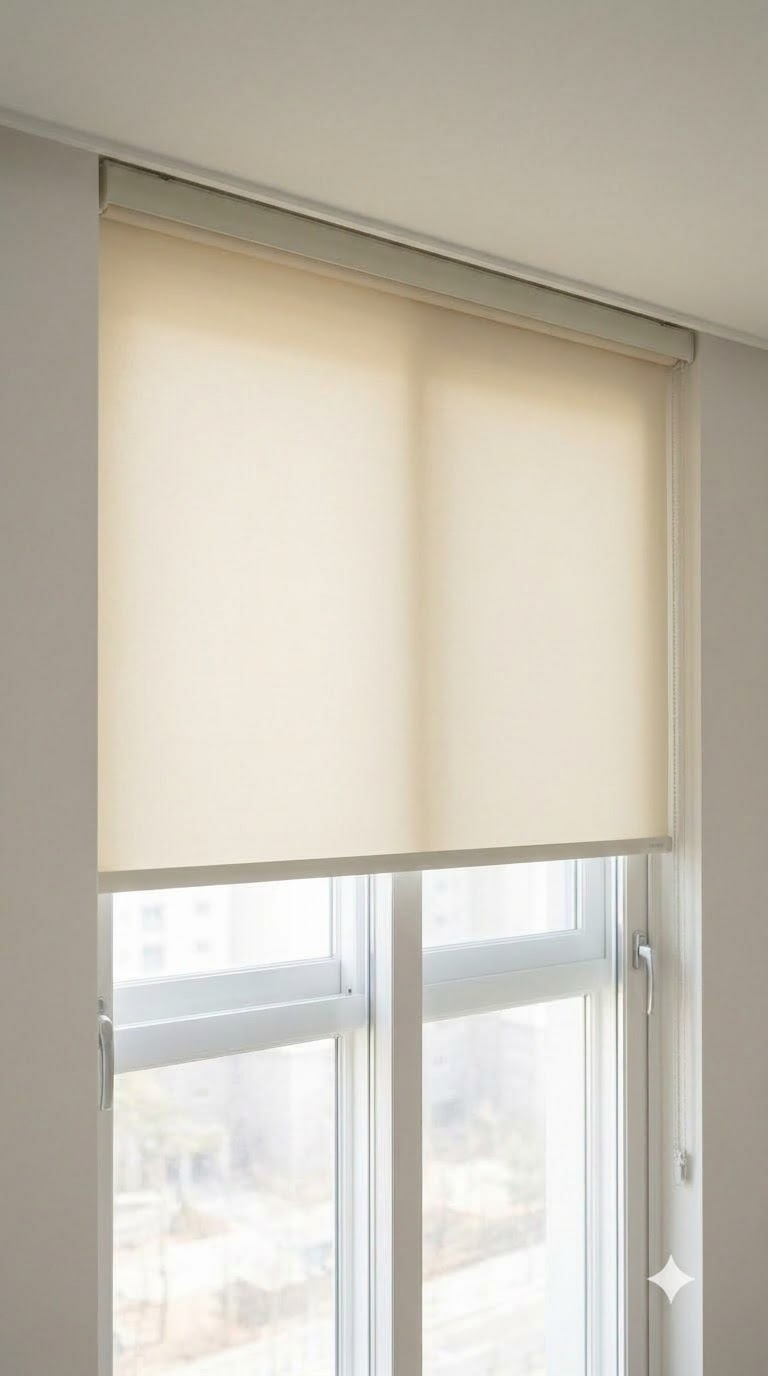
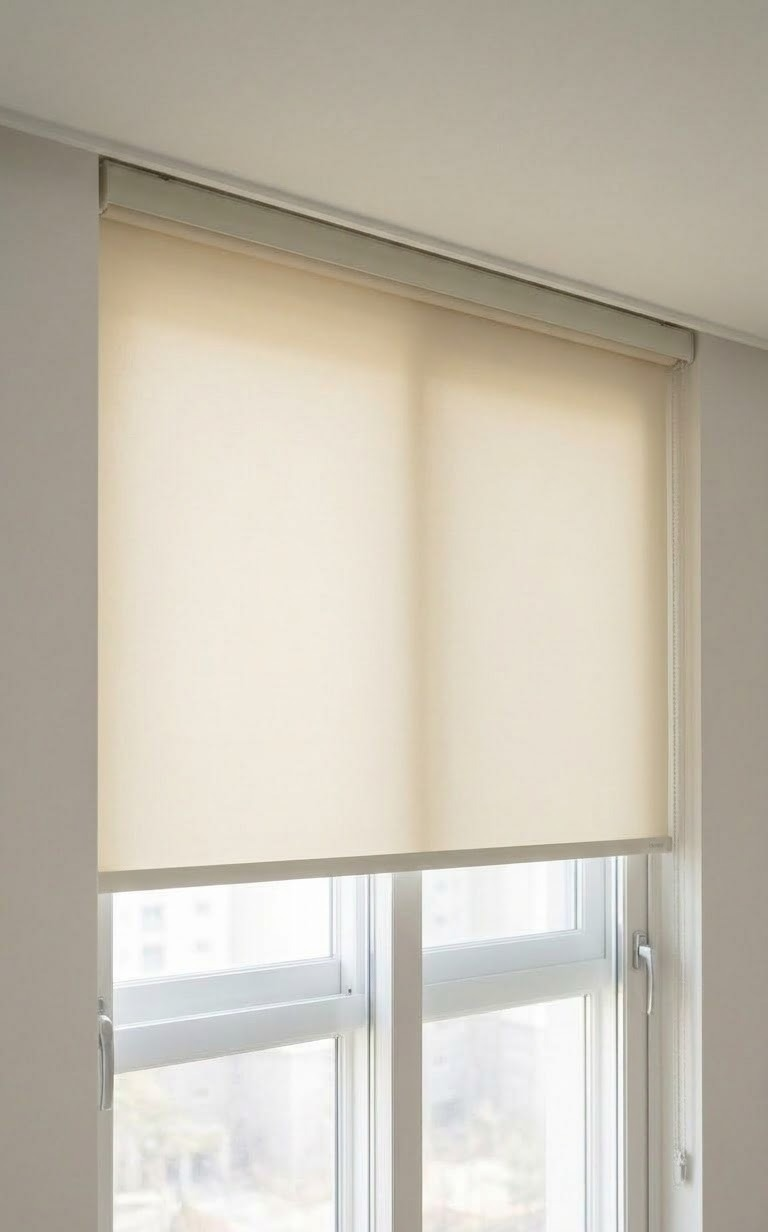
작업목록 69번: 창 구성·블라인드 종류 사진 8장의 오른쪽 아래 로고 없애기(아래 약 10%를 잘라 768×1232로, 파일 이름 그대로, 코드 안 고침) + 버전 20261088

diff --git a/app.js b/app.js
@@ -1,4 +1,4 @@
-(function(g){(g.REDAM_FILES=g.REDAM_FILES||{})['app.js']='20261087';})(typeof window!=='undefined'?window:globalThis); // 파일 버전 표시 (파일이 서로 맞는지 확인용)
+(function(g){(g.REDAM_FILES=g.REDAM_FILES||{})['app.js']='20261088';})(typeof window!=='undefined'?window:globalThis); // 파일 버전 표시 (파일이 서로 맞는지 확인용)
 // ==============================================================
 // app.js — 화면 전환(고객 / 직원), 직원 PIN, 직원 화면(견적 입력)
 // ==============================================================
@@ -22,7 +22,7 @@ window.onerror = function(msg, url, lineNo) {
 let appMode = 'customer';   // 'customer'(고객 화면) | 'staff'(직원 화면)
 
 // 파일 버전 확인: GitHub에 올린 파일 중 예전 버전이 섞여 있으면 화면 맨 위에 알려 줍니다.
-const REDAM_BUILD = '20261087';
+const REDAM_BUILD = '20261088';
 function checkFileVersions() {
     const expected = ['pricing.js', 'costing.js', 'data.js', 'calculator.js', 'concierge.js', 'app.js', 'room-color.js'];
     const reg = window.REDAM_FILES || {};

diff --git a/index.html b/index.html
@@ -695,13 +695,13 @@
     </div>
 
     <!-- 순서 중요: 계산 엔진 → 데이터 → 화면 -->
-    <script src="pricing.js?v=20261087"></script>
-    <script src="costing.js?v=20261087"></script>
-    <script src="data.js?v=20261087"></script>
-    <script src="calculator.js?v=20261087"></script>
-    <script src="concierge.js?v=20261087"></script>
-    <script src="app.js?v=20261087"></script>
-    <script src="room-color.js?v=20261087"></script>
+    <script src="pricing.js?v=20261088"></script>
+    <script src="costing.js?v=20261088"></script>
+    <script src="data.js?v=20261088"></script>
+    <script src="calculator.js?v=20261088"></script>
+    <script src="concierge.js?v=20261088"></script>
+    <script src="app.js?v=20261088"></script>
+    <script src="room-color.js?v=20261088"></script>
     <script>
         if ('serviceWorker' in navigator) {
             window.addEventListener('load', function () { navigator.serviceWorker.register('sw.js').catch(function () {}); });

diff --git a/costing.js b/costing.js
@@ -1,4 +1,4 @@
-(function(g){(g.REDAM_FILES=g.REDAM_FILES||{})['costing.js']='20261087';})(typeof window!=='undefined'?window:globalThis); // 파일 버전 표시 (파일이 서로 맞는지 확인용)
+(function(g){(g.REDAM_FILES=g.REDAM_FILES||{})['costing.js']='20261088';})(typeof window!=='undefined'?window:globalThis); // 파일 버전 표시 (파일이 서로 맞는지 확인용)
 /* ==========================================================================
    Re.dam 원가 계산 엔진  (costing.js)  ※ 직원 모드 전용
    - 이 파일에는 금액(숫자 상수)이 없습니다. 모든 원가 규칙은 "비공개 팩"에서 읽어옵니다.

diff --git a/room-color.js b/room-color.js
@@ -1,4 +1,4 @@
-(function(g){(g.REDAM_FILES=g.REDAM_FILES||{})['room-color.js']='20261087';})(typeof window!=='undefined'?window:globalThis); // 파일 버전 표시 (파일이 서로 맞는지 확인용)
+(function(g){(g.REDAM_FILES=g.REDAM_FILES||{})['room-color.js']='20261088';})(typeof window!=='undefined'?window:globalThis); // 파일 버전 표시 (파일이 서로 맞는지 확인용)
 // ==============================================================
 // 방 벽·바닥 색 재기 (작업목록 15번, 직원 화면 전용)
 //  - 걸레받이에 회색·흰 카드를 기대어 놓고 찍은 사진 한 장(필요하면 벽 사진 한 장 더)

diff --git a/pricing.js b/pricing.js
@@ -1,4 +1,4 @@
-(function(g){(g.REDAM_FILES=g.REDAM_FILES||{})['pricing.js']='20261087';})(typeof window!=='undefined'?window:globalThis); // 파일 버전 표시 (파일이 서로 맞는지 확인용)
+(function(g){(g.REDAM_FILES=g.REDAM_FILES||{})['pricing.js']='20261088';})(typeof window!=='undefined'?window:globalThis); // 파일 버전 표시 (파일이 서로 맞는지 확인용)
 /* ==========================================================================
    Re.dam 판매가 계산 엔진  (pricing.js)
    - 고객 화면(C)과 직원 화면(B)이 "같은 계산식"을 쓰도록 하나로 통합한 파일입니다.

diff --git a/calculator.js b/calculator.js
@@ -1,4 +1,4 @@
-(function(g){(g.REDAM_FILES=g.REDAM_FILES||{})['calculator.js']='20261087';})(typeof window!=='undefined'?window:globalThis); // 파일 버전 표시 (파일이 서로 맞는지 확인용)
+(function(g){(g.REDAM_FILES=g.REDAM_FILES||{})['calculator.js']='20261088';})(typeof window!=='undefined'?window:globalThis); // 파일 버전 표시 (파일이 서로 맞는지 확인용)
 // ==============================================================
 // CORE CALCULATION GLUE  (calculator.js)
 // 계산 자체는 pricing.js(판매가)와 costing.js(원가, 직원 모드 전용)가 합니다.

diff --git a/concierge.js b/concierge.js
@@ -1,4 +1,4 @@
-(function(g){(g.REDAM_FILES=g.REDAM_FILES||{})['concierge.js']='20261087';})(typeof window!=='undefined'?window:globalThis); // 파일 버전 표시 (파일이 서로 맞는지 확인용)
+(function(g){(g.REDAM_FILES=g.REDAM_FILES||{})['concierge.js']='20261088';})(typeof window!=='undefined'?window:globalThis); // 파일 버전 표시 (파일이 서로 맞는지 확인용)
 // ==============================================================
 // RE.DAM CONCIERGE V2 INTERACTION CONTROLLER (ZERO COMPROMISE ENGINE)
 // ==============================================================

diff --git a/sw.js b/sw.js
@@ -4,7 +4,7 @@
    - 외부 도구(Tailwind·아이콘·글꼴 등): 처음 한 번 받아 저장해 두고 이후엔 저장본 사용
    ========================================================================== */
 // 앱 버전: 바꾸면 탭이 새 서비스 워커를 받아 앱 파일을 다시 받아 둠 (CACHE 이름은 그대로 — 바꾸면 미리 받아 둔 사진까지 지워짐)
-const BUILD = '20261087';
+const BUILD = '20261088';
 const CACHE = 'redam-app-v1';
 const SCOPE = self.registration.scope;
 

diff --git a/data.js b/data.js
@@ -1,4 +1,4 @@
-(function(g){(g.REDAM_FILES=g.REDAM_FILES||{})['data.js']='20261087';})(typeof window!=='undefined'?window:globalThis); // 파일 버전 표시 (파일이 서로 맞는지 확인용)
+(function(g){(g.REDAM_FILES=g.REDAM_FILES||{})['data.js']='20261088';})(typeof window!=='undefined'?window:globalThis); // 파일 버전 표시 (파일이 서로 맞는지 확인용)
 // ==============================================================
 // data.js — 데이터·저장·가져오기
 //
